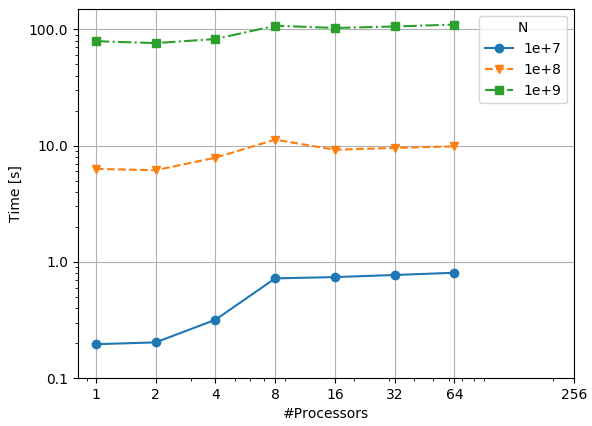
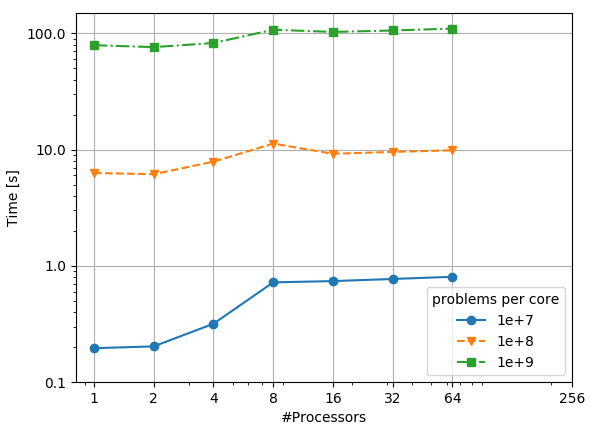
update weak scaling legend

diff --git a/plots/plot_weak.py b/plots/plot_weak.py
@@ -46,5 +46,5 @@ ax.get_yaxis().set_major_formatter(matplotlib.ticker.ScalarFormatter())
 plt.grid(True)
 plt.xlabel('#Processors')
 plt.ylabel('Time [s]')
-plt.legend([sc_notation(elem) for elem in ppps], loc='upper right', ncol=1, title='N')
+plt.legend([sc_notation(elem) for elem in ppps], loc='bottom right', ncol=1, title='problems per core')
 plt.show()
